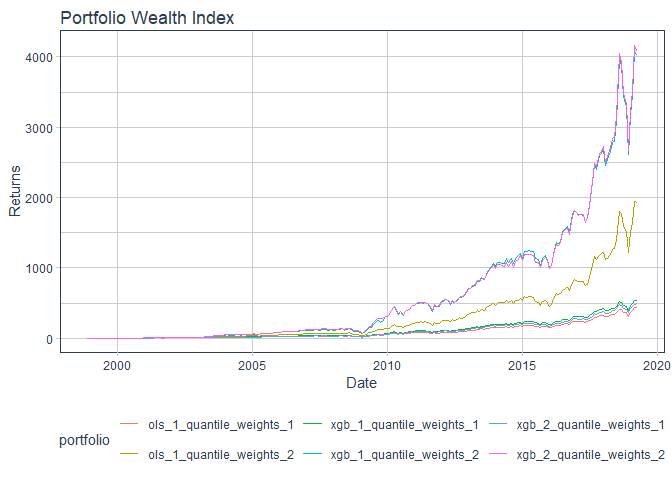
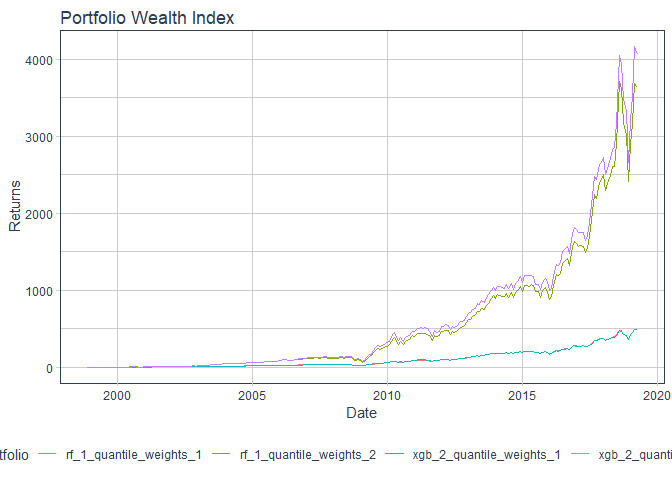
correct pf

diff --git a/README.md b/README.md
@@ -490,24 +490,30 @@ rp_rf$predictions |> head()
 #> # A tibble: 6 × 6
 #>   stock_id date        ols_1  xgb_1 xgb_2   rf_1
 #>      <int> <date>      <dbl>  <dbl> <dbl>  <dbl>
-#> 1       13 2006-12-31 0.0305 0.0402 0.191 0.0283
-#> 2       13 2007-01-31 0.0308 0.0397 0.191 0.0267
-#> 3       13 2007-02-28 0.0300 0.0439 0.193 0.0278
-#> 4       17 2015-03-31 0.0336 0.110  0.223 0.108 
-#> 5       17 2015-04-30 0.0343 0.0734 0.222 0.0563
-#> 6       17 2015-05-31 0.0344 0.0987 0.214 0.0593
+#> 1       13 2006-12-31 0.0305 0.0402 0.191 0.0284
+#> 2       13 2007-01-31 0.0308 0.0397 0.191 0.0283
+#> 3       13 2007-02-28 0.0300 0.0439 0.193 0.0306
+#> 4       17 2015-03-31 0.0336 0.110  0.223 0.0883
+#> 5       17 2015-04-30 0.0343 0.0734 0.222 0.0639
+#> 6       17 2015-05-31 0.0344 0.0987 0.214 0.0549
 rp_rf_stats <- summary(rp_rf)
 print(rp_rf_stats)
 #>       MSE        RMSE      MAE        Hit_Ratio
 #> ols_1 0.03158888 0.1777326 0.08071823 0.5352989
 #> xgb_1 0.03142746 0.1772779 0.08193929 0.5529501
 #> xgb_2 0.06060931 0.2461896 0.1848615  0.5525796
-#> rf_1  0.03127761 0.1768548 0.08038866 0.5525513
+#> rf_1  0.03127481 0.1768469 0.08038432 0.5524914
 ```
 
 Lets create portfolios again.
 
 ``` r
+pf_config <- list(predictions = c("xgb_2","rf_1"),
+                  quantile_weight = list(pred_func="quantile_weights",
+                    config1=list(quantiles = list(long = 0.20, short = 0.20),allow_short_sale = FALSE,
+                      min_weight = -1,  max_weight = 1, b = 1),
+                    config2=list(quantiles = list(long = 0.10, short = 0.10),allow_short_sale = FALSE,
+                      min_weight = -1,  max_weight = 1, b = 1)))
 pf_rf <- backtesting_portfolios(return_prediction_object = rp_rf, pf_config = pf_config)
 #> Currently processing weight model 1 of 1 
 #> Specifically processing config 1 of 2 
@@ -525,13 +531,11 @@ plot(pf_rf)
 ``` r
 pf_rf_stats <- summary(pf_rf)
 print(pf_rf_stats)
-#> # A tibble: 6 × 6
+#> # A tibble: 4 × 6
 #>   portfolio                  mean     sd    SR   VaR_5 turnover
 #>   <chr>                     <dbl>  <dbl> <dbl>   <dbl>    <dbl>
-#> 1 ols_1_quantile_weights_1 0.0280 0.0773 0.362 -0.0905     93.7
-#> 2 ols_1_quantile_weights_2 0.0352 0.0904 0.389 -0.0995    120. 
-#> 3 xgb_1_quantile_weights_1 0.0287 0.0753 0.382 -0.0915    110. 
-#> 4 xgb_1_quantile_weights_2 0.0385 0.0937 0.411 -0.105     135. 
-#> 5 xgb_2_quantile_weights_1 0.0282 0.0733 0.385 -0.0855     90.1
-#> 6 xgb_2_quantile_weights_2 0.0383 0.0904 0.424 -0.0916    118.
+#> 1 rf_1_quantile_weights_1  0.0283 0.0742 0.381 -0.0891     84.6
+#> 2 rf_1_quantile_weights_2  0.0379 0.0912 0.416 -0.102     111. 
+#> 3 xgb_2_quantile_weights_1 0.0282 0.0733 0.385 -0.0855     90.1
+#> 4 xgb_2_quantile_weights_2 0.0383 0.0904 0.424 -0.0916    118.
 ```
